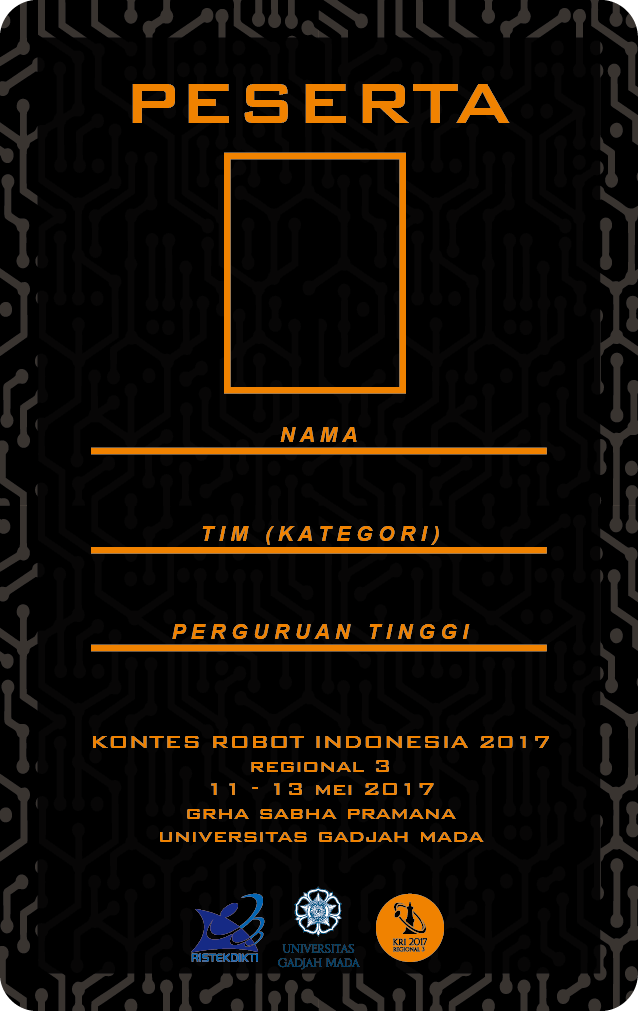
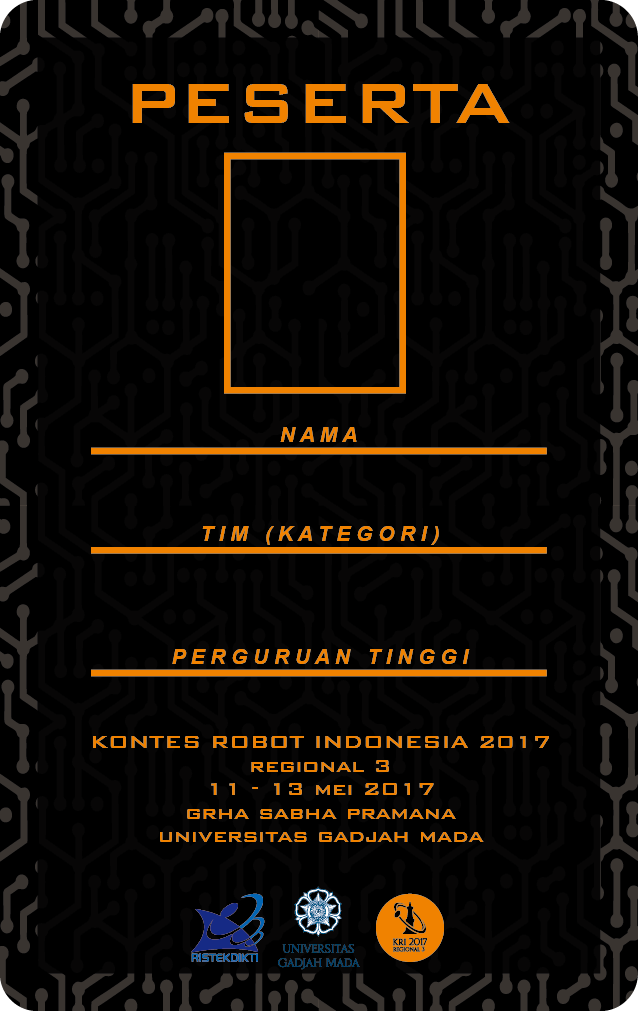
Add person role to ID Card

Changed region(s): [[0.1489, 0.6133, 0.8636, 0.6746]]

diff --git a/kri/apps/autofill/autofill.py b/kri/apps/autofill/autofill.py
@@ -1,4 +1,6 @@
+import os
 from PIL import Image, ImageDraw, ImageFont
+from kri.apps.participant.models import Person
 
 
 class AutoFill:
@@ -53,13 +55,26 @@ class IDCardAutoFill(AutoFill):
         """Add participant name to canvas"""
         self.add_text_center(name.title(), 460)
 
-    def add_team(self, name, category):
+    def add_team(self, name, category, role):
         """Add team name and category to canvas"""
         name = name.title()
         team = name + ' (' + category + ')'
         self.add_text_center(team, 560)
+        self.add_text_center(role, 590)
 
     def add_university(self, name):
         """Add university name to canvas"""
         name = name.title()
-        self.add_text_center(name.title(), 658)
+        self.add_text_center(name.title(), 682)
+
+def fill_id_cards(output_path):
+    persons = Person.objects.all()
+    for p in persons:
+        card = IDCardAutoFill('canvas.png')
+        card.add_photo(p.photo.path)
+        card.add_name(p.name)
+        card.add_team(p.team.name, p.team.get_division_display(), p.get_type_display())
+        card.add_university(p.team.university.name)
+        output_path = os.path.join(output_path, p.team.university.abbreviation + '-' +
+                                   p.team.division + '-' + str(p.id) + '.png')
+        card.save(output_path)
